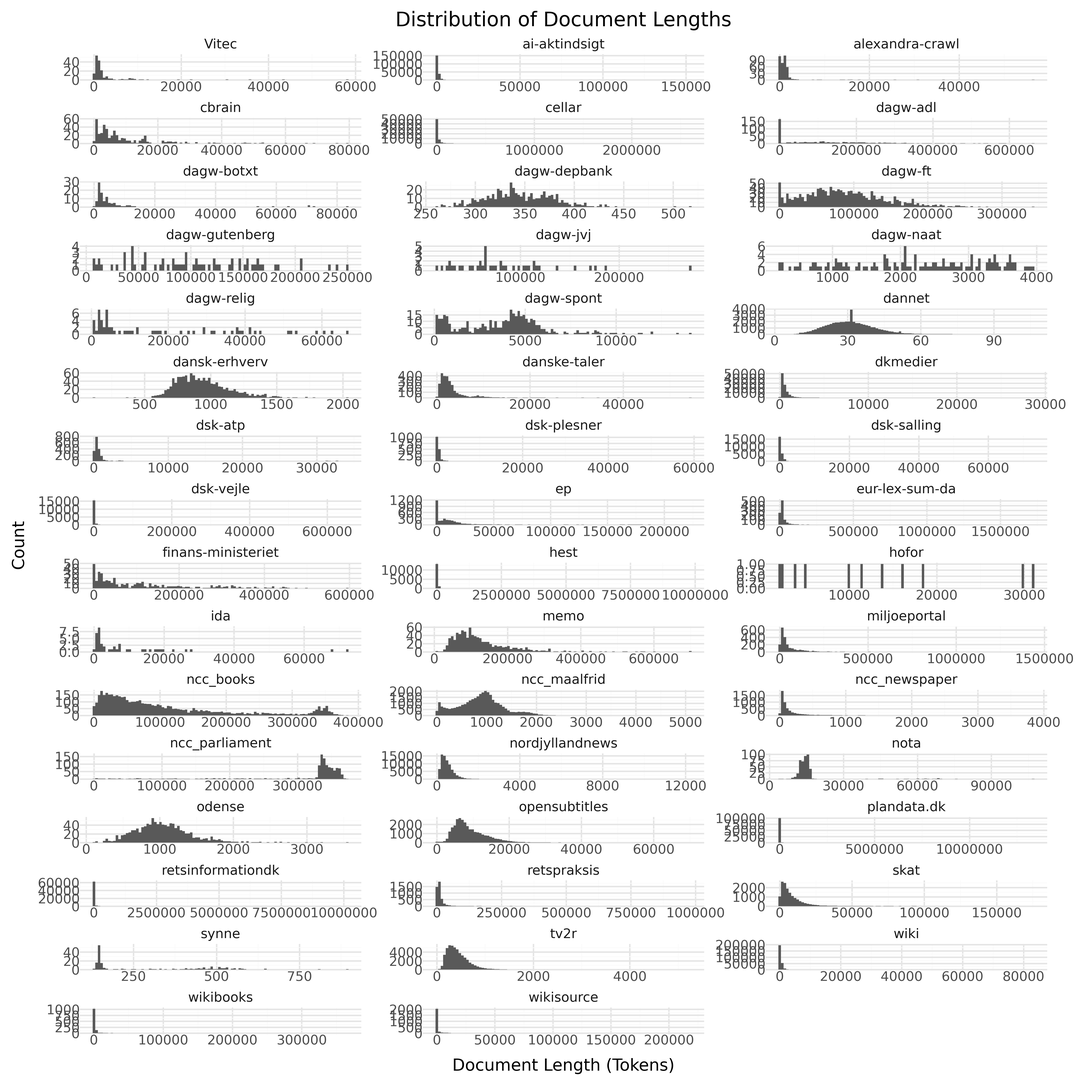
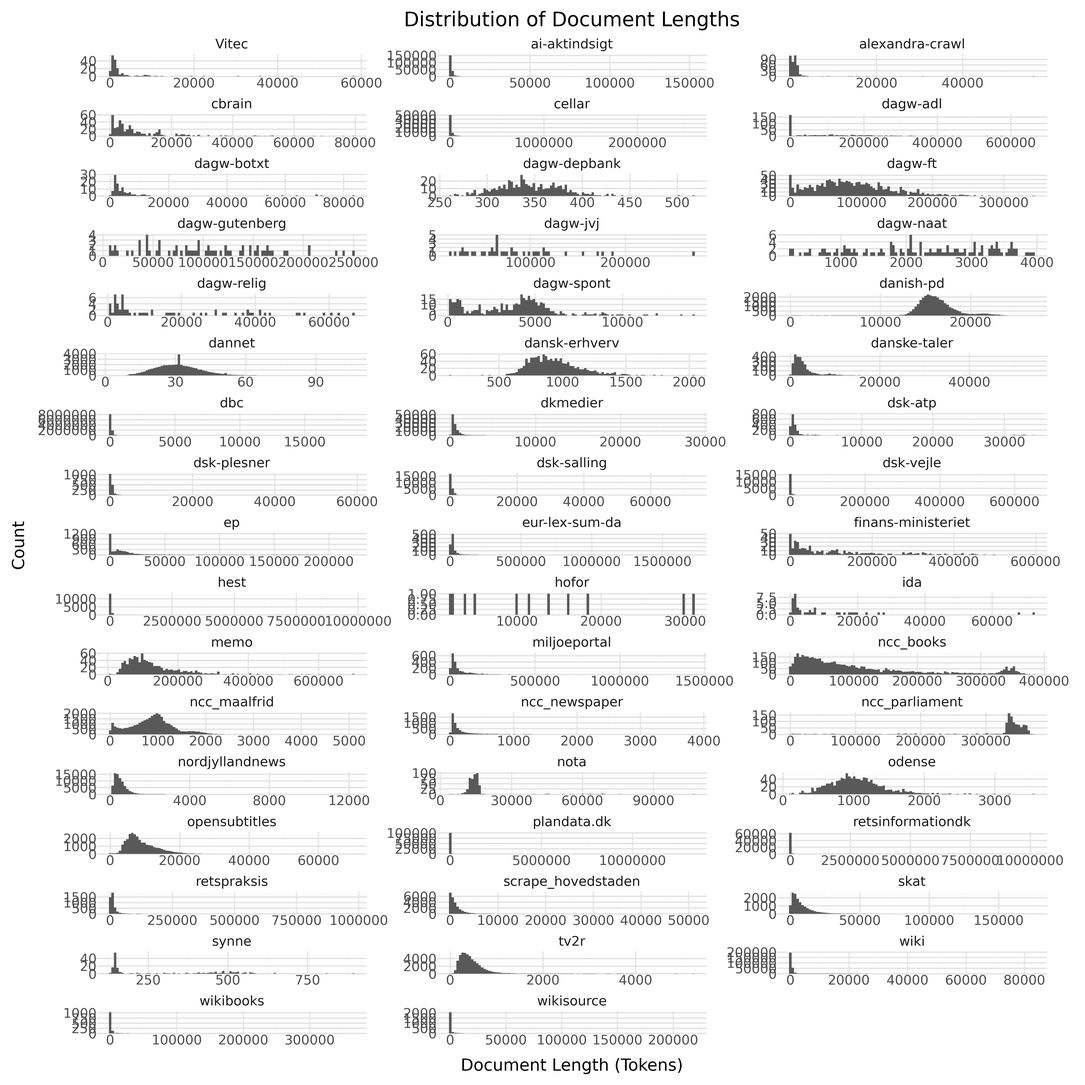
Finalised adding danish-pd, dbc-*, scrape_hovedstaden. All tests pass

Changed region(s): [[0.0312, 0.0, 0.9672, 0.9984]]

diff --git a/src/datasheets/datasheet.py b/src/datasheets/datasheet.py
@@ -158,9 +158,10 @@ class DataSheet(BaseModel):
             d_stats = descriptive_stats
 
         if len(self.language) != 1 and self.language[0] != "da":
-            raise NotImplementedError(
+            e = NotImplementedError(  # raise NotImplementedError(
                 "This script only handles the language codes 'da'"
             )
+            logger.warning(e)
         languages = "dan, dansk, Danish"
 
         package = dedent(f"""

diff --git a/README.md b/README.md
@@ -108,9 +108,9 @@ This repository contains the datasheets for DFM. This repostory documents.
 
 <!-- START-DESC-STATS -->
 - **Language**: dan, dansk, Danish
-- **Number of samples**: 1.14M
-- **Number of tokens (Llama 3)**: 5.51B
-- **Average document length (characters)**: 15145.81
+- **Number of samples**: 11.30M
+- **Number of tokens (Llama 3)**: 6.82B
+- **Average document length (characters)**: 1973.23
 <!-- END-DESC-STATS -->
 
 ### Summary
@@ -127,56 +127,62 @@ These datasets were collected and curated with the intention of developing langu
 We generally split the dataset into two categories: Public release sources and research sources. 
 
 <!-- START-MAIN TABLE -->
-| Source              | Description                                                                                                                                                                                             | Domain       | N. Tokens   | License                |
-|:--------------------|:--------------------------------------------------------------------------------------------------------------------------------------------------------------------------------------------------------|:-------------|:------------|:-----------------------|
-| [cellar]            | The official digital repository for European Union legal documents and open data                                                                                                                        | Legal        | 1.15B       | [CC BY-SA 4.0]         |
-| [plandata]          | A collection of documents pertaining to the planning of municipalities (Lokalplaner), regions, etc. in Denmark                                                                                          | Legal        | 1.03B       | [Unknown]              |
-| [ncc_books]         | Danish books extracted from the [Norwegian Colossal Corpus](https://huggingface.co/datasets/NbAiLab/NCC) derived from OCR                                                                               | Books        | 531.97M     | [CC-0]                 |
-| [retsinformationdk] | [retsinformation.dk](https://www.retsinformation.dk) (legal-information.dk) the official legal information system of Denmark                                                                            | Legal        | 516.35M     | [Danish Copyright Law] |
-| [hest]              | Samples from the Danish debate forum www.heste-nettet.dk                                                                                                                                                | Social Media | 389.32M     | [CC-0]                 |
-| [ncc_parliament]    | Collections from the Norwegian parliament in Danish. Extracted from the [Norwegian Colossal Corpus](https://huggingface.co/datasets/NbAiLab/NCC) derived from ocr                                       | Other        | 338.87M     | [NLOD 2.0]             |
-| [opensubtitles]     | Danish subsection of [OpenSubtitles](https://opus.nlpl.eu/OpenSubtitles/corpus/version/OpenSubtitles)                                                                                                   | Conversation | 271.60M     | [CC-0]                 |
-| [ai-aktindsigt]     | Multiple web scrapes from municipality websites collected as a part of the [AI-aktindsigt](https://ai-aktindsigt.dk) project                                                                            | Web          | 139.23M     | [Apache 2.0]           |
-| [miljoeportalen]    | Data from [Danmarks Miljøportalen](https://www.miljoeportal.dk/om-danmarks-miljoeportal/) (Denmark's Environment Portal)                                                                                | Legal        | 127.38M     | [CC-0]                 |
-| [skat]              | Skat is the Danish tax authority. This dataset contains content from its website skat.dk                                                                                                                | Legal        | 122.11M     | [CC-0]                 |
-| [wiki]              | The Danish subsection of [wikipedia](https://en.wikipedia.org/wiki/Main_Page)                                                                                                                           | Encyclopedic | 122.00M     | [CC-0]                 |
-| [ft]                | Records from all meetings of The Danish parliament (Folketinget) in the parliament hall                                                                                                                 | Conversation | 114.09M     | [CC-0]                 |
-| [memo]              | The MeMo corpus comprising almost all Danish novels from the period 1870-1899, known as the Modern Breakthrough                                                                                         | Books        | 110.23M     | [CC BY-SA 4.0]         |
-| [ep]                | The Danish subsection of [Europarl](https://aclanthology.org/2005.mtsummit-papers.11/)                                                                                                                  | Conversation | 100.84M     | [CC-0]                 |
-| [dsk-dkmedier]      | A collection of ~100K news articles from [DK Medier](https://dkmedier.dk), written in the period 2000-2024                                                                                              | News         | 65.33M      | [DSK-1]                |
-| [adl]               | Danish literature from 1700-2023 from the [Archive for Danish Literature](https://tekster.kb.dk/text?editorial=no&f%5Bsubcollection_ssi%5D%5B%5D=adl&match=one&search_field=Alt) (ADL)                  | Books        | 58.49M      | [CC-0]                 |
-| [retspraksis]       | Case law or judical practice in Denmark derived from [Retspraksis](https://da.wikipedia.org/wiki/Retspraksis)                                                                                           | Legal        | 56.26M      | [CC-0]                 |
-| [fm-udgivelser]     | The official publication series of the Danish Ministry of Finance containing economic analyses, budget proposals, and fiscal policy documents                                                           | Legal        | 50.33M      | [CC BY-SA 4.0]         |
-| [nordjyllandnews]   | Articles from the Danish Newspaper [TV2 Nord](https://www.tv2nord.dk)                                                                                                                                   | News         | 37.90M      | [CC-0]                 |
-| [eur-lex-sum-da]    | The Danish subsection of EUR-lex SUM consisting of EU legislation paired with professionally written summaries                                                                                          | Legal        | 31.37M      | [CC BY-SA 4.0]         |
-| [ncc_maalfrid]      | Danish content from Norwegian institutions websites                                                                                                                                                     | Web          | 29.26M      | [NLOD 2.0]             |
-| [dsk-vejle]         | A collection of crawled webpages that is managed by Vejle Kommune. Contains various information, covering everything from tourists to garbage collection to historical knowledge of the area            | Web          | 27.99M      | [DSK-1]                |
-| [tv2r]              | Contemporary Danish newswire articles published between 2010 and 2019                                                                                                                                   | News         | 21.67M      | [CC-BY-SA 4.0]         |
-| [dsk-salling]       | A collection of crawled webpages that is managed by Salling Group. The dataset consists mainly of product pages from online stores such as bilka.dk, br.dk and such. The data consists of ~24K webpages | Web          | 9.79M       | [DSK-1]                |
-| [danske-taler]      | Danish Speeches from [dansketaler.dk](https://www.dansketaler.dk)                                                                                                                                       | Conversation | 8.23M       | [CC-0]                 |
-| [nota]              | The text only part of the [Nota lyd- og tekstdata](https://sprogteknologi.dk/dataset/nota-lyd-og-tekstdata) dataset                                                                                     | Readaloud    | 7.30M       | [CC-0]                 |
-| [gutenberg]         | The Danish subsection from Project [Gutenberg](https://www.gutenberg.org)                                                                                                                               | Books        | 6.76M       | [Gutenberg]            |
-| [wikibooks]         | The Danish Subsection of [Wikibooks](https://www.wikibooks.org)                                                                                                                                         | Books        | 6.24M       | [CC-0]                 |
-| [wikisource]        | The Danish subsection of [Wikisource](https://en.wikisource.org/wiki/Main_Page)                                                                                                                         | Encyclopedic | 5.34M       | [CC-0]                 |
-| [dsk-cbrain]        | A collection of Marketing material, product guides, and datasheets produced by cBrain for their products                                                                                                | Other        | 4.19M       | [DSK-1]                |
-| [jvj]               | The works of the Danish author and poet, [Johannes V. Jensen](https://da.wikipedia.org/wiki/Johannes_V._Jensen)                                                                                         | Books        | 3.55M       | [CC-BY-SA 4.0]         |
-| [dsk-atp]           | A collection of crawled webpages that is managed by ATP                                                                                                                                                 | Web          | 2.86M       | [DSK-1]                |
-| [spont]             | Conversational samples collected as a part of research projects at Aarhus University                                                                                                                    | Conversation | 1.56M       | [CC-0]                 |
-| [dannet]            | [DanNet](https://cst.ku.dk/projekter/dannet) is a Danish WordNet                                                                                                                                        | Other        | 1.48M       | [DanNet 1.0]           |
-| [relig]             | Danish religious text from the 1700-2022                                                                                                                                                                | Books        | 1.24M       | [CC-0]                 |
-| [dsk-odense]        | A set of newsletters stories, covering events in Odense Municipality. Have been published on their website                                                                                              | News         | 1.18M       | [DSK-1]                |
-| [dsk-danskerhverv]  | A set of newsletters written by Dansk Erhverv, primarily focusing on financials and companies world wide                                                                                                | News         | 1.12M       | [DSK-1]                |
-| [ncc_newspaper]     | OCR'd Newspapers derived from [NCC](https://huggingface.co/datasets/NbAiLab/NCC)                                                                                                                        | News         | 1.05M       | [CC-0]                 |
-| [dsk-plesner]       | A combination of crawled webpages from Plesners own website, and a series of internal documents outlining procedures                                                                                    | Other        | 896.33K     | [DSK-1]                |
-| [botxt]             | The Bornholmsk Ordbog Dictionary Project                                                                                                                                                                | Dialect      | 847.87K     | [CC-0]                 |
-| [dsk-alexandra]     | A collection of crawled webpages that is managed by Alexandra Institutet                                                                                                                                | Web          | 584.35K     | [DSK-1]                |
-| [dsk-vitec]         | A collection of documents covering product descriptions, to newsletters, to internal documentation                                                                                                      | Other        | 537.07K     | [DSK-1]                |
-| [dsk-ida]           | A collection of newsletters, articles and other texts produced by IDA                                                                                                                                   | News         | 436.74K     | [DSK-1]                |
-| [naat]              | Danish speeches from 1930-2022                                                                                                                                                                          | Conversation | 286.55K     | [CC-0]                 |
-| [depbank]           | The Danish subsection of the [Universal Dependencies Treebank](https://github.com/UniversalDependencies/UD_Danish-DDT)                                                                                  | Other        | 184.92K     | [CC-BY-SA 4.0]         |
-| [dsk-hofor]         | A collection of articles, guides and newsletters written by HOFOR for their customers                                                                                                                   | Other        | 143.49K     | [DSK-1]                |
-| [synne]             | Dataset collected from [synnejysk forening's website](https://www.synnejysk.dk), covering the Danish dialect sønderjysk                                                                                 | Other        | 52.02K      | [CC-0]                 |
-| **Total**           |                                                                                                                                                                                                         |              | 5.51B       |                        |
+| Source               | Description                                                                                                                                                                                             | Domain       | N. Tokens   | License                                           |
+|:---------------------|:--------------------------------------------------------------------------------------------------------------------------------------------------------------------------------------------------------|:-------------|:------------|:--------------------------------------------------|
+| [cellar]             | The official digital repository for European Union legal documents and open data                                                                                                                        | Legal        | 1.15B       | [CC BY-SA 4.0]                                    |
+| [plandata]           | A collection of documents pertaining to the planning of municipalities (Lokalplaner), regions, etc. in Denmark                                                                                          | Legal        | 1.03B       | [Unknown]                                         |
+| [dbc-abstracts]      | dbc-abstracts consists of more than 11.6 million abstracts of books and other materials collected and created by DBC D1G1TAL (former Dansk Bibliotekscenter)                                            | Books        | 694.42M     | [Written agreement (public models, private data)] |
+| [danish-pd]          | **Danish-Public Domain** or **Danish-PD** is a large collection aiming to aggregate all Danish monographies and periodicals in the public domain                                                        | Books        | 532.43M     | [Public Domain]                                   |
+| [ncc_books]          | Danish books extracted from the [Norwegian Colossal Corpus](https://huggingface.co/datasets/NbAiLab/NCC) derived from OCR                                                                               | Books        | 531.97M     | [CC-0]                                            |
+| [retsinformationdk]  | [retsinformation.dk](https://www.retsinformation.dk) (legal-information.dk) the official legal information system of Denmark                                                                            | Legal        | 516.35M     | [Danish Copyright Law]                            |
+| [hest]               | Samples from the Danish debate forum www.heste-nettet.dk                                                                                                                                                | Social Media | 389.32M     | [CC-0]                                            |
+| [ncc_parliament]     | Collections from the Norwegian parliament in Danish. Extracted from the [Norwegian Colossal Corpus](https://huggingface.co/datasets/NbAiLab/NCC) derived from ocr                                       | Other        | 338.87M     | [NLOD 2.0]                                        |
+| [opensubtitles]      | Danish subsection of [OpenSubtitles](https://opus.nlpl.eu/OpenSubtitles/corpus/version/OpenSubtitles)                                                                                                   | Conversation | 271.60M     | [CC-0]                                            |
+| [ai-aktindsigt]      | Multiple web scrapes from municipality websites collected as a part of the [AI-aktindsigt](https://ai-aktindsigt.dk) project                                                                            | Web          | 139.23M     | [Apache 2.0]                                      |
+| [miljoeportalen]     | Data from [Danmarks Miljøportalen](https://www.miljoeportal.dk/om-danmarks-miljoeportal/) (Denmark's Environment Portal)                                                                                | Legal        | 127.38M     | [CC-0]                                            |
+| [skat]               | Skat is the Danish tax authority. This dataset contains content from its website skat.dk                                                                                                                | Legal        | 122.11M     | [CC-0]                                            |
+| [wiki]               | The Danish subsection of [wikipedia](https://en.wikipedia.org/wiki/Main_Page)                                                                                                                           | Encyclopedic | 122.00M     | [CC-0]                                            |
+| [ft]                 | Records from all meetings of The Danish parliament (Folketinget) in the parliament hall                                                                                                                 | Conversation | 114.09M     | [CC-0]                                            |
+| [memo]               | The MeMo corpus comprising almost all Danish novels from the period 1870-1899, known as the Modern Breakthrough                                                                                         | Books        | 110.23M     | [CC BY-SA 4.0]                                    |
+| [ep]                 | The Danish subsection of [Europarl](https://aclanthology.org/2005.mtsummit-papers.11/)                                                                                                                  | Conversation | 100.84M     | [CC-0]                                            |
+| [dsk-dkmedier]       | A collection of ~100K news articles from [DK Medier](https://dkmedier.dk), written in the period 2000-2024                                                                                              | News         | 65.33M      | [DSK-1]                                           |
+| [adl]                | Danish literature from 1700-2023 from the [Archive for Danish Literature](https://tekster.kb.dk/text?editorial=no&f%5Bsubcollection_ssi%5D%5B%5D=adl&match=one&search_field=Alt) (ADL)                  | Books        | 58.49M      | [CC-0]                                            |
+| [retspraksis]        | Case law or judical practice in Denmark derived from [Retspraksis](https://da.wikipedia.org/wiki/Retspraksis)                                                                                           | Legal        | 56.26M      | [CC-0]                                            |
+| [dbc-reviews]        | dbc-reviews consists of more than 214 thousand reviews of books and other materials collected and created by DBC D1G1TAL (former Dansk Bibliotekscenter)                                                | Books        | 53.96M      | [Written agreement (public models, private data)] |
+| [fm-udgivelser]      | The official publication series of the Danish Ministry of Finance containing economic analyses, budget proposals, and fiscal policy documents                                                           | Legal        | 50.33M      | [CC BY-SA 4.0]                                    |
+| [nordjyllandnews]    | Articles from the Danish Newspaper [TV2 Nord](https://www.tv2nord.dk)                                                                                                                                   | News         | 37.90M      | [CC-0]                                            |
+| [eur-lex-sum-da]     | The Danish subsection of EUR-lex SUM consisting of EU legislation paired with professionally written summaries                                                                                          | Legal        | 31.37M      | [CC BY-SA 4.0]                                    |
+| [ncc_maalfrid]       | Danish content from Norwegian institutions websites                                                                                                                                                     | Web          | 29.26M      | [NLOD 2.0]                                        |
+| [dsk-vejle]          | A collection of crawled webpages that is managed by Vejle Kommune. Contains various information, covering everything from tourists to garbage collection to historical knowledge of the area            | Web          | 27.99M      | [DSK-1]                                           |
+| [scrape_hovedstaden] | Digitaliseringsstyrelsen udgiver ét datasæt på baggrund af offentliggjorte tekster fra Region Hovedstadens dokumentsamling                                                                              | Encyclopedic | 27.04M      | [CC-0]                                            |
+| [tv2r]               | Contemporary Danish newswire articles published between 2010 and 2019                                                                                                                                   | News         | 21.67M      | [CC-BY-SA 4.0]                                    |
+| [dsk-salling]        | A collection of crawled webpages that is managed by Salling Group. The dataset consists mainly of product pages from online stores such as bilka.dk, br.dk and such. The data consists of ~24K webpages | Web          | 9.79M       | [DSK-1]                                           |
+| [danske-taler]       | Danish Speeches from [dansketaler.dk](https://www.dansketaler.dk)                                                                                                                                       | Conversation | 8.23M       | [CC-0]                                            |
+| [nota]               | The text only part of the [Nota lyd- og tekstdata](https://sprogteknologi.dk/dataset/nota-lyd-og-tekstdata) dataset                                                                                     | Readaloud    | 7.30M       | [CC-0]                                            |
+| [gutenberg]          | The Danish subsection from Project [Gutenberg](https://www.gutenberg.org)                                                                                                                               | Books        | 6.76M       | [Gutenberg]                                       |
+| [wikibooks]          | The Danish Subsection of [Wikibooks](https://www.wikibooks.org)                                                                                                                                         | Books        | 6.24M       | [CC-0]                                            |
+| [wikisource]         | The Danish subsection of [Wikisource](https://en.wikisource.org/wiki/Main_Page)                                                                                                                         | Encyclopedic | 5.34M       | [CC-0]                                            |
+| [dsk-cbrain]         | A collection of Marketing material, product guides, and datasheets produced by cBrain for their products                                                                                                | Other        | 4.19M       | [DSK-1]                                           |
+| [jvj]                | The works of the Danish author and poet, [Johannes V. Jensen](https://da.wikipedia.org/wiki/Johannes_V._Jensen)                                                                                         | Books        | 3.55M       | [CC-BY-SA 4.0]                                    |
+| [dsk-atp]            | A collection of crawled webpages that is managed by ATP                                                                                                                                                 | Web          | 2.86M       | [DSK-1]                                           |
+| [dbc-faktalink]      | dbc-faktalink consists of more than 5 hundred articles created by DBC D1G1TAL (former Dansk Bibliotekscenter)                                                                                           | Books        | 1.99M       | [Written agreement (public models, private data)] |
+| [spont]              | Conversational samples collected as a part of research projects at Aarhus University                                                                                                                    | Conversation | 1.56M       | [CC-0]                                            |
+| [dannet]             | [DanNet](https://cst.ku.dk/projekter/dannet) is a Danish WordNet                                                                                                                                        | Other        | 1.48M       | [DanNet 1.0]                                      |
+| [dbc-forfatterweb]   | dbc-forfatterweb consists of more than 1 thousand articles created by DBC D1G1TAL (former Dansk Bibliotekscenter)                                                                                       | Books        | 1.42M       | [Written agreement (public models, private data)] |
+| [relig]              | Danish religious text from the 1700-2022                                                                                                                                                                | Books        | 1.24M       | [CC-0]                                            |
+| [dsk-odense]         | A set of newsletters stories, covering events in Odense Municipality. Have been published on their website                                                                                              | News         | 1.18M       | [DSK-1]                                           |
+| [dsk-danskerhverv]   | A set of newsletters written by Dansk Erhverv, primarily focusing on financials and companies world wide                                                                                                | News         | 1.12M       | [DSK-1]                                           |
+| [ncc_newspaper]      | OCR'd Newspapers derived from [NCC](https://huggingface.co/datasets/NbAiLab/NCC)                                                                                                                        | News         | 1.05M       | [CC-0]                                            |
+| [dsk-plesner]        | A combination of crawled webpages from Plesners own website, and a series of internal documents outlining procedures                                                                                    | Other        | 896.33K     | [DSK-1]                                           |
+| [botxt]              | The Bornholmsk Ordbog Dictionary Project                                                                                                                                                                | Dialect      | 847.87K     | [CC-0]                                            |
+| [dsk-alexandra]      | A collection of crawled webpages that is managed by Alexandra Institutet                                                                                                                                | Web          | 584.35K     | [DSK-1]                                           |
+| [dsk-vitec]          | A collection of documents covering product descriptions, to newsletters, to internal documentation                                                                                                      | Other        | 537.07K     | [DSK-1]                                           |
+| [dsk-ida]            | A collection of newsletters, articles and other texts produced by IDA                                                                                                                                   | News         | 436.74K     | [DSK-1]                                           |
+| [naat]               | Danish speeches from 1930-2022                                                                                                                                                                          | Conversation | 286.55K     | [CC-0]                                            |
+| [depbank]            | The Danish subsection of the [Universal Dependencies Treebank](https://github.com/UniversalDependencies/UD_Danish-DDT)                                                                                  | Other        | 184.92K     | [CC-BY-SA 4.0]                                    |
+| [dsk-hofor]          | A collection of articles, guides and newsletters written by HOFOR for their customers                                                                                                                   | Other        | 143.49K     | [DSK-1]                                           |
+| [synne]              | Dataset collected from [synnejysk forening's website](https://www.synnejysk.dk), covering the Danish dialect sønderjysk                                                                                 | Other        | 52.02K      | [CC-0]                                            |
+| **Total**            |                                                                                                                                                                                                         |              | 6.82B       |                                                   |
 
 [adl]: data/adl/adl.md
 [botxt]: data/botxt/botxt.md
@@ -225,6 +231,12 @@ We generally split the dataset into two categories: Public release sources and r
 [ncc_maalfrid]: data/ncc_maalfrid/ncc_maalfrid.md
 [ncc_newspaper]: data/ncc_newspaper/ncc_newspaper.md
 [ncc_parliament]: data/ncc_parliament/ncc_parliament.md
+[dbc-abstracts]: data/dbc-abstracts/dbc-abstracts.md
+[dbc-faktalink]: data/dbc-faktalink/dbc-faktalink.md
+[dbc-forfatterweb]: data/dbc-forfatterweb/dbc-forfatterweb.md
+[dbc-reviews]: data/dbc-reviews/dbc-reviews.md
+[scrape_hovedstaden]: data/scrape_hovedstaden/scrape_hovedstaden.md
+[danish-pd]: data/danish-pd/danish-pd.md
 
 
 [CC-0]: https://creativecommons.org/publicdomain/zero/1.0/legalcode.en
@@ -248,6 +260,11 @@ We generally split the dataset into two categories: Public release sources and r
 [Unknown]: ./data/plandata/plandata.md#license-information
 [NLOD 2.0]: ./data/ncc_maalfrid/ncc_maalfrid.md#license-information
 [NLOD 2.0]: ./data/ncc_parliament/ncc_parliament.md#license-information
+[Written agreement (public models, private data)]: ./data/dbc-abstracts/dbc-abstracts.md#license-information
+[Written agreement (public models, private data)]: ./data/dbc-faktalink/dbc-faktalink.md#license-information
+[Written agreement (public models, private data)]: ./data/dbc-forfatterweb/dbc-forfatterweb.md#license-information
+[Written agreement (public models, private data)]: ./data/dbc-reviews/dbc-reviews.md#license-information
+[Public Domain]: ./data/danish-pd/danish-pd.md#license-information
 <!-- END-MAIN TABLE -->
 
 <!-- **Public Release sources**: These sources include datasets that either public released under permissible licenses or where explicit permission have been given by the data owner to train and release models based on the data. The primary source for the non-public training data is [DSK](https://alexandra.dk/dsk/).

diff --git a/data/scrape_hovedstaden/scrape_hovedstaden.md b/data/scrape_hovedstaden/scrape_hovedstaden.md
@@ -13,7 +13,6 @@ domains:
 - Encyclopedic
 ---
 
-
 # Dataset Card for Scrape fra dokumentsamling på Vip Region Hovedstaden
 
 <!-- START-SHORT DESCRIPTION -->
@@ -37,10 +36,10 @@ Der gøres opmærksom på, at korpusset er udviklet med henblik på udvikling af
 
 <!-- START-DESC-STATS -->
 - **Language**: dan, dansk, Danish
-- **Domains**: News
-- **Number of samples**: 105.11K
-- **Number of tokens (Llama 3)**: 65.44M
-- **Average document length (characters)**: 1866.20
+- **Domains**: Encyclopedic
+- **Number of samples**: 24.00K
+- **Number of tokens (Llama 3)**: 27.04M
+- **Average document length (characters)**: 3328.91
 <!-- END-DESC-STATS -->
 
 

diff --git a/data/dbc-reviews/dbc-reviews.md b/data/dbc-reviews/dbc-reviews.md
@@ -17,7 +17,6 @@ domains:
 - Other
 ---
 
-
 # Dataset Card for DBC D1G1TAL - Reviews
 
 <!-- START-SHORT DESCRIPTION -->
@@ -33,10 +32,10 @@ The dataset contains thousands of reviews in Danish lamnugage, which are supplem
 
 <!-- START-DESC-STATS -->
 - **Language**: dan, dansk, Danish
-- **Domains**: News
-- **Number of samples**: 105.11K
-- **Number of tokens (Llama 3)**: 65.44M
-- **Average document length (characters)**: 1866.20
+- **Domains**: Books, Other
+- **Number of samples**: 213.93K
+- **Number of tokens (Llama 3)**: 53.96M
+- **Average document length (characters)**: 770.31
 <!-- END-DESC-STATS -->
 
 

diff --git a/data/dbc-forfatterweb/dbc-forfatterweb.md b/data/dbc-forfatterweb/dbc-forfatterweb.md
@@ -14,7 +14,6 @@ domains:
 - Encyclopedic
 ---
 
-
 # Dataset Card for DBC D1G1TAL - Forfatterweb
 
 <!-- START-SHORT DESCRIPTION -->
@@ -31,10 +30,10 @@ The dataset includes articles created between 1991 and 2024.
 
 <!-- START-DESC-STATS -->
 - **Language**: dan, dansk, Danish
-- **Domains**: News
-- **Number of samples**: 105.11K
-- **Number of tokens (Llama 3)**: 65.44M
-- **Average document length (characters)**: 1866.20
+- **Domains**: Books, Encyclopedic
+- **Number of samples**: 1.19K
+- **Number of tokens (Llama 3)**: 1.42M
+- **Average document length (characters)**: 3638.96
 <!-- END-DESC-STATS -->
 
 

diff --git a/data/danish-pd/danish-pd.md b/data/danish-pd/danish-pd.md
@@ -13,7 +13,6 @@ domains:
 - Books
 ---
 
-
 # Dataset Card for Danish Public Domain
 
 <!-- START-SHORT DESCRIPTION -->
@@ -29,10 +28,10 @@ The collection contains 3113 individual titles making up 322,141,347 words recov
 
 <!-- START-DESC-STATS -->
 - **Language**: dan, dansk, Danish
-- **Domains**: News
-- **Number of samples**: 105.11K
-- **Number of tokens (Llama 3)**: 65.44M
-- **Average document length (characters)**: 1866.20
+- **Domains**: Books
+- **Number of samples**: 33.28K
+- **Number of tokens (Llama 3)**: 532.43M
+- **Average document length (characters)**: 43746.79
 <!-- END-DESC-STATS -->
 
 

diff --git a/data/dbc-faktalink/dbc-faktalink.md b/data/dbc-faktalink/dbc-faktalink.md
@@ -14,7 +14,6 @@ domains:
 - Encyclopedic
 ---
 
-
 # Dataset Card for DBC D1G1TAL - Faktalink
 
 <!-- START-SHORT DESCRIPTION -->
@@ -31,10 +30,10 @@ The dataset includes articles created between 1991 and 2024.
 
 <!-- START-DESC-STATS -->
 - **Language**: dan, dansk, Danish
-- **Domains**: News
-- **Number of samples**: 105.11K
-- **Number of tokens (Llama 3)**: 65.44M
-- **Average document length (characters)**: 1866.20
+- **Domains**: Books, Encyclopedic
+- **Number of samples**: 523
+- **Number of tokens (Llama 3)**: 1.99M
+- **Average document length (characters)**: 11717.05
 <!-- END-DESC-STATS -->
 
 

diff --git a/data/dbc-abstracts/dbc-abstracts.md b/data/dbc-abstracts/dbc-abstracts.md
@@ -16,7 +16,6 @@ domains:
 - Books
 ---
 
-
 # Dataset Card for DBC D1G1TAL - Abstracts 
 
 <!-- START-SHORT DESCRIPTION -->
@@ -34,10 +33,10 @@ The dataset includes abstracts created between 1991 and 2024.
 
 <!-- START-DESC-STATS -->
 - **Language**: dan, dansk, Danish
-- **Domains**: News
-- **Number of samples**: 105.11K
-- **Number of tokens (Llama 3)**: 65.44M
-- **Average document length (characters)**: 1866.20
+- **Domains**: Books
+- **Number of samples**: 9.89M
+- **Number of tokens (Llama 3)**: 694.42M
+- **Average document length (characters)**: 329.68
 <!-- END-DESC-STATS -->
 
 
